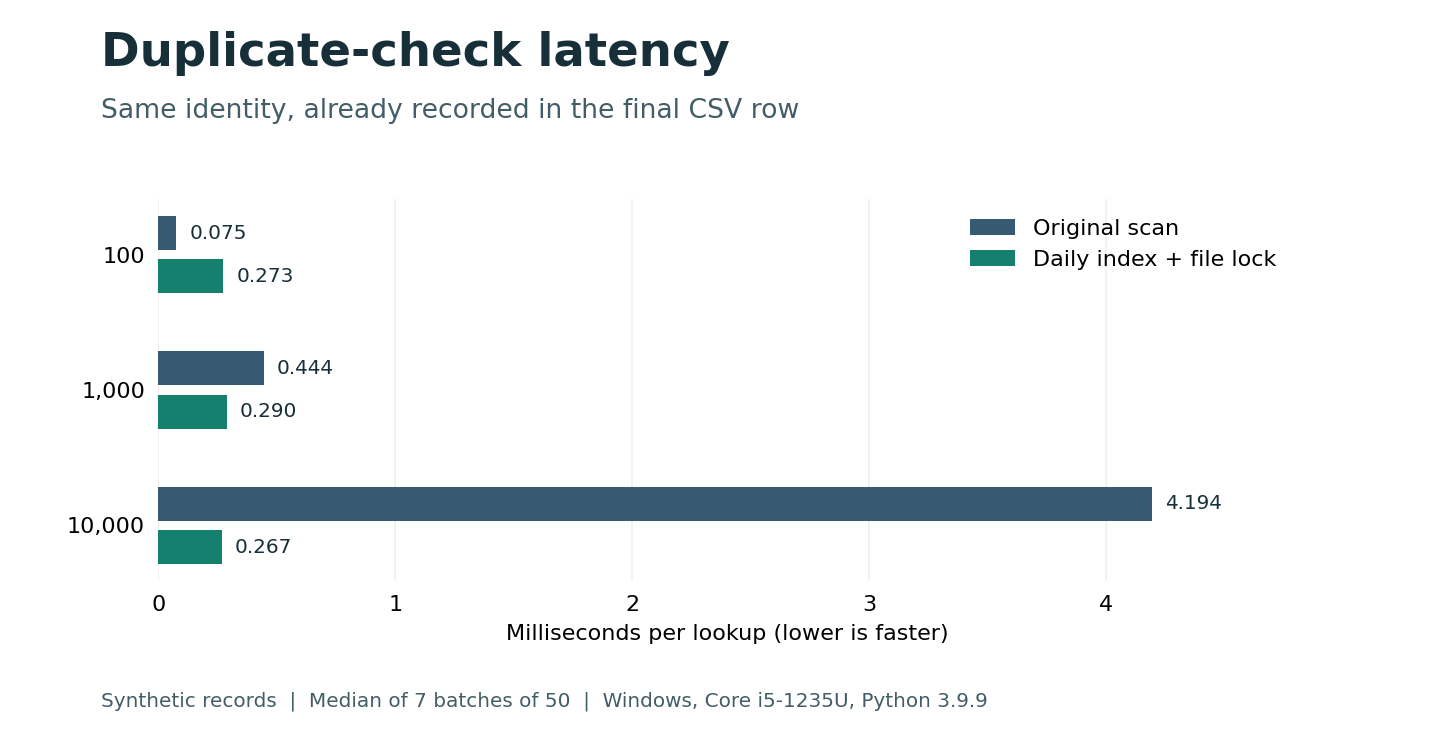
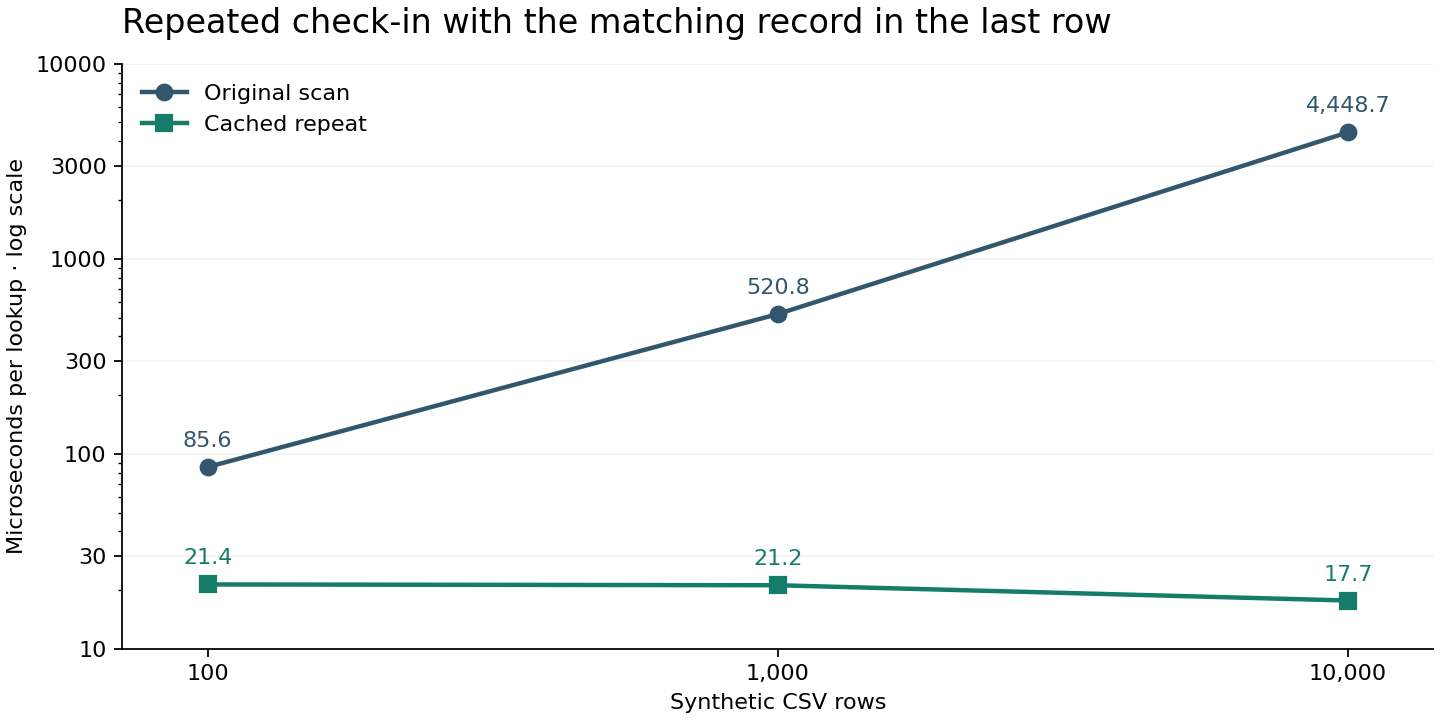
Verify hash-locked builds in CI and publish reproducible QA guidance

diff --git a/docs/engineering.md b/docs/engineering.md
@@ -11,13 +11,13 @@ The baseline places enrollment, camera I/O, matching, CSV persistence and menu h
 | The old threshold was effectively below 0.5: a candidate had to pass both tolerance 0.6 and `1 - distance > 0.5`. Unknown detections never reached the overlay. | Use a single strict threshold, defaulting to 0.5. Draw rejected faces and omit them from the register. | Operators can distinguish a face that failed matching from an empty frame. |
 | A group photo can enter the gallery under one filename. The enrollment prompt can produce an unsafe path or replace an existing image. | Require one detected face, validate filenames, check identity collisions across extensions, and publish a completed JPEG by renaming a temporary file. | The operator can retry a failed capture without relabeling a different person. |
 | Exceptions between camera open and normal exit can leave the device held. Reports assume a third column exists after checking for two. | Release capture in a context manager. Validate CSV headers, dates, times and field counts before appending. | A bad row produces an actionable error and the original file remains available for inspection. |
-| The README launches a missing script, promises a screenshot, and refers to a license file absent from the tree. The repository tracks portraits and attendance. | Document the real commands, illustrate the data path and measured performance, and exclude runtime data from the current Git tree. | Reviewers can reproduce the example with synthetic data. Choosing a project license remains an owner decision. |
+| The README launches a missing script, promises a screenshot, and refers to a license file absent from the tree. The repository tracks portraits and attendance. | Document the real commands, illustrate the data path and measured performance, and exclude runtime data from the current Git tree. | Reviewers can reproduce the example with synthetic data. The repository now includes the MIT license previously declared by its author. |
 
 ## Code map
 
 | Component | Responsibility |
 | --- | --- |
-| [Command line and menu](../opencv_attendance.py) | Parse camera and policy settings, run enrollment or recognition, report by date and surface operational errors. Reporting loads no vision models. |
+| [Command line and menu](../idetectface/cli.py) | Parse camera and policy settings, run enrollment or recognition, report by date and surface operational errors. Reporting loads no vision models. |
 | [Vision pipeline](../idetectface/vision.py) | Load the gallery once per live session, acquire frames, convert BGR to RGB, call the detector and encoder, match, and draw feedback. |
 | [Identity rules](../idetectface/identity.py) | Generate portable enrollment filenames and normalize identity keys for comparisons. |
 | [Attendance register](../idetectface/attendance.py) | Validate existing data, maintain the daily index, serialize updates and read reports. |
@@ -31,7 +31,8 @@ sequenceDiagram
     participant Log as AttendanceLog
     participant File as Local register
     Camera->>Log: Mark ID at local observation time
-    Log->>File: Acquire OS-backed lock
+    Note over Camera,File: An unchanged last sighting returns after a file metadata check.
+    Log->>File: Acquire OS-backed lock for other sightings
     Log->>File: Check file identity, size and modification time
     opt First call, day change or external update
         File-->>Log: Stream validated rows and rebuild today's set
@@ -46,15 +47,15 @@ sequenceDiagram
     Note over Log,File: Lock released before caller resumes
 ```
 
-The lock coordinates app instances using the same local file. Both reporters and writers acquire it, with a five-second timeout. Keep external editors closed during capture. The app checks for file changes between marks. Back up the CSV before manual corrections and reopen the session afterward. An interrupted append can leave a partial row. If validation fails, inspect and repair a copy before replacing the live register.
+The lock coordinates app instances using the same local file. Reports and all possible writes acquire it with a five-second timeout. An exact repeat of the last committed identity can return after verifying the day and file version. Keep external editors closed during capture. The app checks for file changes between marks. Back up the CSV before manual corrections and reopen the session afterward. Writes are encoded before modifying the file, synced before acknowledgement and truncated back on a recoverable write failure. A hard power loss can still interrupt an append. If validation fails, inspect and repair a copy before replacing the live register.
 
-For **G** gallery images, one face requires **G** embedding distances of dimension 128. Downscaling halves each image dimension and frame skipping reduces detector calls. Both choices can hurt detection of small or briefly visible faces. For **H** history rows, loading or refreshing the daily index takes **O(H)** work. A warm membership lookup takes expected **O(1)** plus a lock and filesystem metadata check. The index holds only that day's distinct identities. All-history reports load the result set in memory.
+For **G** gallery images, one face requires **G** embedding distances of dimension 128. Downscaling halves each image dimension and frame skipping reduces detector calls. Both choices can hurt detection of small or briefly visible faces. For **H** history rows, loading or refreshing the daily index takes **O(H)** work. A warm membership lookup takes expected **O(1)**. The last-confirmed identity needs one metadata check. Other identities require the lock. The index holds only that day's distinct identities. All-history reports load the result set in memory.
 
 ## Run and maintain a pilot
 
 1. Use a private local data folder. Ask each participant to opt in and assign a unique ID. Names that differ only in case or normalized whitespace refer to one identity. A local account with write access can alter both portraits and attendance.
 2. For migration, back up existing files privately before switching branches. Run `records --all` against the chosen data directory and compare totals and timestamps with the original CSV. Re-enroll any gallery image reported as corrupt or containing zero or multiple faces. Legacy CSVs use UTF-8 or the host's default text encoding. Convert a copy to UTF-8 when moving a legacy register between code pages.
-3. A camera-open error calls for checking OS camera permissions, closing other capture apps, and trying another `--camera` index. A HighGUI error usually calls for a fresh virtual environment with the desktop OpenCV wheel. The upstream model loader may emit a `pkg_resources` deprecation warning. The requirements constrain its compatible setuptools runtime.
+3. A camera-open error calls for checking OS camera permissions, closing other capture apps, and trying another `--camera` index. A HighGUI error usually calls for a fresh virtual environment with the desktop OpenCV wheel. The inference adapter locates model data through Python distribution metadata and loads only the detector, five-point landmark predictor and descriptor model.
 4. Stop capture before correcting a row or removing a portrait. Keep the minimum necessary data, cover backup copies in the retention plan, and restart capture after changing the gallery. Application-level authentication, encryption and verification of physical presence would require additional controls.
 5. Complete the [physical-camera and held-out evaluation](evaluation.md) before making a pilot accuracy claim. For multiple locations, first measure gallery size, concurrent write rate and report latency. If local files become a bottleneck, introduce a database with a unique constraint on participant ID and local date, then test imports against existing registers.
 

diff --git a/README.md b/README.md
@@ -2,7 +2,7 @@
 
 A local webcam attendance system for a supervised lab or workshop. An organizer enrolls a participant with one portrait. When the camera recognizes them, the register keeps the timestamp of their first accepted sighting that day. Reappearing later leaves the original check-in time intact.
 
-**Python · OpenCV · dlib · face_recognition · NumPy**
+**Python 3.11 · OpenCV · dlib · NumPy · local CSV**
 
 ## Follow a check-in
 
@@ -13,7 +13,7 @@ flowchart LR
     F --> D["Detect faces<br/>encode each face"]
     G --> M["Nearest Euclidean distance"]
     D --> M
-    M -->|"Below threshold"| A["Check identity + local date<br/>under a file lock"]
+    M -->|"Below threshold"| A["Check cached sighting<br/>or acquire register lock"]
     M -->|"Outside threshold"| U["Show Unknown"]
     A -->|"First sighting"| W["Append Name,Date,Time"]
     A -->|"Already present"| S["Show present"]
@@ -24,27 +24,26 @@ The camera processes every second frame by default and reuses the last boxes bet
 
 ## Run it locally
 
-1. Open a terminal in the project checkout. Create a virtual environment with a 64-bit Python interpreter. The clean Windows installation below was verified with Python 3.9.9. The CI workflow targets Python 3.11.
+1. Clone the repository and create a virtual environment with **64-bit CPython 3.11**. Use `py -3.11` on Windows or `python3.11` on Linux and macOS for the environment creation command. The full CI matrix covers Windows and Ubuntu.
 
    ```sh
-   python -m venv .venv
+   git clone https://github.com/pial-paul/iDetectFace.git
+   cd iDetectFace
+   python3.11 -m venv .venv
    ```
 
-2. Activate it with `.\.venv\Scripts\Activate.ps1` in PowerShell or `source .venv/bin/activate` on Linux and macOS. Install the desktop dependencies.
+2. Activate with `.\.venv\Scripts\Activate.ps1` in PowerShell or `source .venv/bin/activate` in a POSIX shell. Install the hash-locked runtime, then the application.
 
    ```sh
    python -m pip install --upgrade pip
-   python -m pip install -r requirements.txt
+   python -m pip install --require-hashes -r requirements.txt
+   python -m pip install --no-deps .
    python -m pip check
    ```
 
-   If pip needs to build dlib, install CMake and a C++ compiler first. On Windows, use Visual Studio Build Tools with the **Desktop development with C++** workload. Use one OpenCV wheel per environment. A headless wheel omits the preview windows. [dlib build instructions](https://dlib.net/compile.html) · [OpenCV wheel selection](https://pypi.org/project/opencv-python/)
+   The desktop OpenCV and community-built dlib wheels provide the native libraries. Use one OpenCV wheel per environment. Models download at installation time and recognition runs locally. [dlib wheel build project](https://github.com/alesanfra/dlib-wheels) · [OpenCV wheel selection](https://pypi.org/project/opencv-python/)
 
-3. Start a private demo register. Choose **2** to enroll a consenting participant under a unique ID such as `demo-01`. With exactly one face in view, press **Space** to save or **Esc** to cancel. Choose **1** to start attendance and press **q** in the preview to finish. Choose **3** to view today, a specific day, or all days.
-
-   ```sh
-   python opencv_attendance.py --data-dir .local-data
-   ```
+3. Start the menu with `idetectface --data-dir .local-data`. Choose **2** to enroll a consenting participant under a unique ID such as `demo-01`. With exactly one face in view, press **Space** to save or **Esc** to cancel. Choose **1** to start attendance and press **q** in the preview to finish. Choose **3** to view today, a specific day, or all days.
 
 The original `python opencv_attendance.py` menu still uses `known_faces/` and `attendance.csv` in the current directory. Point `--data-dir` at an existing register to use its original `Name,Date,Time` rows and JPG, JPEG or PNG enrollment files. New registers create the CSV on the first check-in.
 
@@ -60,9 +59,9 @@ python opencv_attendance.py --data-dir .local-data records --all
 
 ## What the benchmark shows
 
-![Duplicate lookup times at three CSV sizes. At 100 rows the original scan is faster. At 10,000 rows the scan takes 4.194 ms and the daily index takes 0.267 ms.](docs/duplicate-check.png)
+![Median duplicate lookup time at three CSV sizes. At 10,000 rows the serial scan took 4,448.7 microseconds and the cached repeat took 17.7 microseconds.](docs/duplicate-check.png)
 
-At 10,000 synthetic rows, median time per repeated check fell from **4.194 ms to 0.267 ms** on one Windows laptop. At 100 rows, the file lock made the indexed path slower. The benchmark isolates a warm lookup with a match in the last row. Camera capture, detection and first-time writes are outside the timing. [Method, exact values and reproduction steps](docs/evaluation.md)
+On one Windows machine, a repeat of the last recorded identity in a 10,000-row synthetic log took **17.7 µs** per check, compared with **4,448.7 µs** for a match at the end of the original sequential scan. The fast path checks that the register and local date still match the cached sighting. Camera inference, alternating identities and first writes fall outside this measurement. [Method, exact values and reproduction steps](docs/evaluation.md)
 
 ```sh
 python -m unittest discover -s tests -v
@@ -82,3 +81,8 @@ Portraits and the CSV are ordinary local files. Restrict access to the data dire
 - [Engineering review](docs/engineering.md) covers the original defects, design changes, failure handling and next implementation priorities.
 - [Evaluation protocol](docs/evaluation.md) covers storage latency, recognition errors and a physical-camera acceptance check.
 - [Portfolio descriptions](docs/portfolio.md) contains résumé bullets for software engineering and research applications.
+
+- [Security and private data](SECURITY.md) describes the local trust boundary and how to report an issue.
+- [Contributor guide](CONTRIBUTING.md) includes packaging, lint, tests and dependency auditing.
+
+Project code is distributed under the [MIT License](LICENSE). Model files and dependencies retain their upstream terms. [Model provenance](https://pypi.org/project/face-recognition-models/)

diff --git a/docs/evaluation.md b/docs/evaluation.md
@@ -4,22 +4,22 @@
 
 From the project root, run `python -m benchmarks.duplicate_lookup`. The script creates temporary synthetic CSVs, puts one identity for the selected day in the final row, and checks that identity repeatedly. Both implementations must return “already present” on the warm-up. Each reported value is the median of seven batch durations divided by 50 checks per batch.
 
-| CSV data rows | Original serial scan, µs/check | Daily index with file lock, µs/check |
+| CSV data rows | Original scan, µs/check | Cached repeat, µs/check |
 | ---: | ---: | ---: |
-| 100 | 75.2 | 273.2 |
-| 1,000 | 443.9 | 289.6 |
-| 10,000 | 4,194.0 | 266.5 |
+| 100 | 85.6 | 21.4 |
+| 1,000 | 520.8 | 21.2 |
+| 10,000 | 4,448.7 | 17.7 |
 
-This run used Windows, an Intel Core i5-1235U, CPython 3.9.9 and filelock 3.17.0. The original column reproduces the baseline's sequential scan and early return for a duplicate. The indexed column calls `AttendanceLog.mark`. Both receive a fixed observation day. Data generation and initial index construction finish before timing starts. [Benchmark source](../benchmarks/duplicate_lookup.py)
+Measured with 64-bit CPython 3.11.13, Windows, an Intel Core i5-1235U and filelock 4.2.12. The original column reproduces the baseline's serial scan and early return. The second calls `AttendanceLog.mark` with the same last-confirmed identity. Both receive a fixed observation day. Setup, first writes, disk sync and index construction finish before timing starts. [Benchmark source](../benchmarks/duplicate_lookup.py)
 
-At 10,000 rows the median fell by **93.6%**, or about **15.7×** as many checks in the same time. The original scan wins at 100 rows. An early-row match would also favor the scan. Restarting the app, advancing the local date or observing another writer's update requires an index rebuild. Disk cache, hardware and competing processes can change these results.
+A repeat checks file metadata before returning. Alternating identities acquire the lock and consult the daily index. A concurrent write or date change triggers an index refresh. An early-row match would reduce the cost of the original scan. Disk cache, hardware and competing processes affect these figures.
 
 ## Recognition evaluation
 
 The repository includes a runner and a labeling protocol. An accuracy estimate requires separately collected, consented probe images. The published benchmark above measures storage behavior.
 
 1. Enroll consenting participants under unique IDs. Collect one-person probe photos in separate sessions with different lighting, pose and distance. Include people who opted into evaluation and have no gallery entry. Keep calibration and final test sessions separate. Count participants as well as photos, since many photos of one person provide limited independent evidence.
-2. Keep private images and manifests under `.local-data/` or outside the checkout. Prepare a UTF-8 CSV headed `image,expected`. Paths are relative to the manifest. A known label must match the loaded gallery name using spaces for filename underscores. Use `@unknown` explicitly for a person outside the gallery. Example labels and paths below are fictional.
+2. Keep private images and manifests under `.local-data/` or outside the checkout. Prepare a UTF-8 CSV headed `image,expected`. Keep probes inside the manifest directory tree. Supply relative paths to regular JPEG or PNG files up to 16 MiB and 16 megapixels each. A known label must match the loaded gallery name using spaces for filename underscores. Use `@unknown` explicitly for a person outside the gallery. Example labels and paths below are fictional.
 
    ```csv
    image,expected

diff --git a/docs/portfolio.md b/docs/portfolio.md
@@ -5,22 +5,22 @@
 **iDetectFace | Python, OpenCV, NumPy, dlib, CSV, GitHub Actions**
 
 - Built a local webcam attendance system that matches 128-dimensional face embeddings, rejects out-of-threshold observations and records each participant's first check-in per day.
-- Reduced median repeated-check latency from 4.194 ms to 0.267 ms on a synthetic 10,000-row CSV by indexing daily attendance and coordinating writers with an interprocess file lock.
-- Added 26 automated tests covering concurrent writes, midnight rollover, legacy CSVs, enrollment validation, recognition decisions and camera failures. Configured GitHub Actions for Windows and Linux checks.
+- Reduced median repeated-check latency from 4.449 ms to 0.018 ms on a synthetic 10,000-row CSV by caching the last confirmed sighting and validating the register version before taking a file lock.
+- Added 36 automated tests covering concurrent writes, midnight rollover, legacy CSVs, enrollment validation, recognition decisions and camera failures. Configured GitHub Actions for Windows and Linux checks.
 
 ## Research or graduate application
 
 - Developed an open-set face identification prototype with a configurable Euclidean-distance threshold and a held-out evaluation tool that reports false acceptances, false rejections, wrong identities and detection failures by cohort.
-- Designed a reproducible experiment comparing two attendance lookup strategies across 100, 1,000 and 10,000 synthetic records. Quantified where locking overhead outweighed indexing gains on the test machine.
+- Designed a reproducible experiment comparing two attendance lookup strategies across 100, 1,000 and 10,000 synthetic records. Quantified the cost of repeat sightings with an unchanged register.
 
 ## Single-line version
 
-Built a Python/OpenCV face recognition attendance system with daily deduplication and 26 automated tests, reducing median repeat-check latency by 93.6% on a 10,000-row synthetic CSV benchmark.
+Built a Python/OpenCV face recognition attendance system with daily deduplication and 36 automated tests, reducing median repeat-check latency by 99.6% on a 10,000-row synthetic CSV benchmark.
 
 ## Demonstrate it in an interview
 
 1. Open the architecture diagram and trace one camera frame through the threshold decision to the register. Explain why an embedding distance cannot be interpreted directly as a probability.
-2. Run `python -m benchmarks.duplicate_lookup`. Discuss why the short CSV favors the scan and why the index needs rebuilding when the local date changes.
+2. Run `python -m benchmarks.duplicate_lookup`. Discuss how the matching row's position affects a scan and why the index needs rebuilding when the local date changes.
 3. Show the concurrent-writer regression test and the single-face enrollment check. Explain the separate failure costs of assigning the wrong person and missing a check-in.
 4. For a research interview, open the evaluation protocol and explain how enrollment, calibration and held-out sessions are separated. Quote recognition or field-impact metrics only after collecting those measurements.
 

diff --git a/CONTRIBUTING.md b/CONTRIBUTING.md
@@ -1,0 +1,40 @@
+# Development and release checks
+
+Use the CPython 3.11 environment in the [setup guide](README.md). Application code lives in `idetectface/`, synthetic regression tests in `tests/`, and experiments in `benchmarks/`. The top-level script preserves the original command line.
+
+## Test a change
+
+```sh
+python -m pip install ruff==0.11.13
+python -m ruff check .
+python -m ruff format --check .
+python -m unittest discover -s tests -v
+python -m benchmarks.duplicate_lookup
+```
+
+The automated tests require the native libraries and packaged models. They run with temporary data and controlled camera frames. For a device or recognition change, also follow the [physical-camera checks](docs/evaluation.md).
+
+## Change dependencies
+
+Edit the project metadata first. Regenerate the runtime lock with a Python 3.11 environment and uv, preserving hashes for the supported platforms.
+
+```sh
+uv pip compile pyproject.toml --python-version 3.11 --universal --generate-hashes --no-header --no-annotate --upgrade -o requirements.txt
+python -m pip install --require-hashes -r requirements.txt
+python -m pip install --no-deps .
+python -m pip check
+python -I -m idetectface --help
+```
+
+Run the advisory check in a separate tools environment. Also check the underlying dlib version when updating the community wheel.
+
+```sh
+uvx --from pip-audit==2.10.1 pip-audit --no-deps --disable-pip -r requirements.txt
+```
+
+## Review a release
+
+1. Run the complete suite on Windows and Linux. Inspect the wheel from outside the source tree and exercise the installed console command.
+2. Review the actual Git tree and wheel contents. Keep portraits, recordings, credentials, manifests and attendance exports out of both.
+3. Run `gitleaks git --redact --log-opts="--all" .` and scan a clean export with `gitleaks dir --redact`. A secret scanner complements the manual data review.
+4. Publish a fast-forward commit and verify its remote SHA and Actions results. Record device and dataset limitations separately from software test outcomes.

diff --git a/SECURITY.md b/SECURITY.md
@@ -1,0 +1,11 @@
+# Security and private data
+
+iDetectFace is a local application for a supervised check-in station. A person with write access to the data directory can change enrollments or attendance. A photo can produce a match. Use an organizer and a manual alternative when attendance affects someone.
+
+Store the register in a private OS account or access-controlled directory. Choose pseudonymous participant IDs, obtain permission before enrollment and agree on a retention period. Protect backup copies as well as the live files. JPEGs and CSVs are stored locally in plaintext. Linux and macOS create new register files with owner-only access. Windows uses the containing directory's ACL.
+
+Use trusted local files. The evaluation runner accepts relative probe paths inside the manifest directory. Gallery and probe images must be regular JPEG or PNG files of at most 16 MiB and 16 megapixels. Ambiguous equal-distance matches across different identities produce an unknown result.
+
+The current release tree excludes personal images and attendance logs. The public repository's earlier commits contain demonstration portraits and attendance rows. Deleting a file from a later commit does not erase old commits or downloaded clones.
+
+For a suspected vulnerability, use GitHub's private security reporting option if enabled, or contact the maintainer privately through their GitHub profile. Include the affected commit, operating system and observed behavior. Use synthetic identifiers and omit actual portraits, attendance records and credentials.
